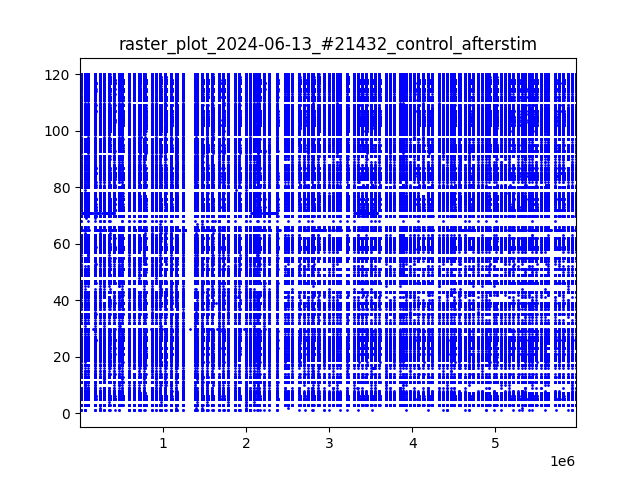
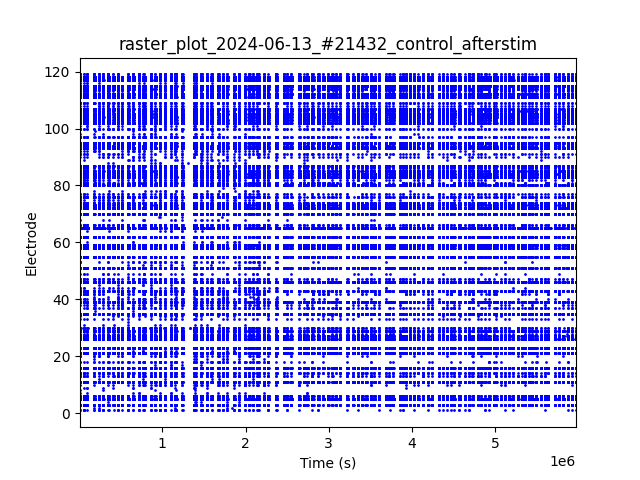
raster plot

diff --git a/analysis_manager.py b/analysis_manager.py
@@ -45,12 +45,12 @@ action = int(input())
 
 # plot signal
 if action == 1:
+    raw_data_path= r"C:\Users\dvirg\OneDrive\Desktop\toar1\year4\project\CODE\recorders\2024-05-21T15-43-17McsRecording_MEA21009_predictable_afterstim_A-00020.h5"
     print("choose channel id:")
-    channel_id = int(input())  # Example channel ID
+    channel_id = input()  # Example channel ID
 
     # Initialize the ChannelAnalyzer for the selected channel
-    channel_analyzer = ChannelAnalyzer(raw_data_path, channel_id, sampling_rate)
-    print (channel_analyzer.Group_Of_Bursts)
+    channel_analyzer = ChannelAnalyzer(raw_data_path, channel_id)
     channel_analyzer.plot_signal()
 
 # plot heat map
@@ -62,7 +62,7 @@ if action == 2:
 # create raster plot
 if action == 3:
     
-    raw_data_path= r"C:\Users\dvirg\OneDrive\Desktop\toar1\year4\project\CODE\recorders\2024-06-13T16-38-48McsRecording_MEA21432_control_afterstim_A-00020.h5"
+    raw_data_path= r"C:\Users\dvirg\OneDrive\Desktop\toar1\year4\project\CODE\recorders\2024-06-13T17-53-27McsRecording_MEA23414_predictable_afterstim_A-00020.h5"
     create_raster_plot(raw_data_path)
 
 # add file electrode_comparison_analysis

diff --git a/Chanels.py b/Chanels.py
@@ -217,9 +217,10 @@ class ChannelAnalyzer:
     def plot_signal(self):
         output_dir = 'spikes_and_barst'
         os.makedirs(output_dir, exist_ok=True)
-        for value in self.max_values_time:
-            value = value / (10 ** 4)
-            plt.axvline(x=value, ymin=0, ymax=0.06, color='r', linestyle='-')
+        if self.max_values_time!=[]:
+            for value in self.max_values_time:
+                value = value / (10 ** 4)
+                plt.axvline(x=value, ymin=0, ymax=0.06, color='r', linestyle='-')
 
         if self.Group_Of_Bursts!=[]:
             for v in self.burst_start_time:
